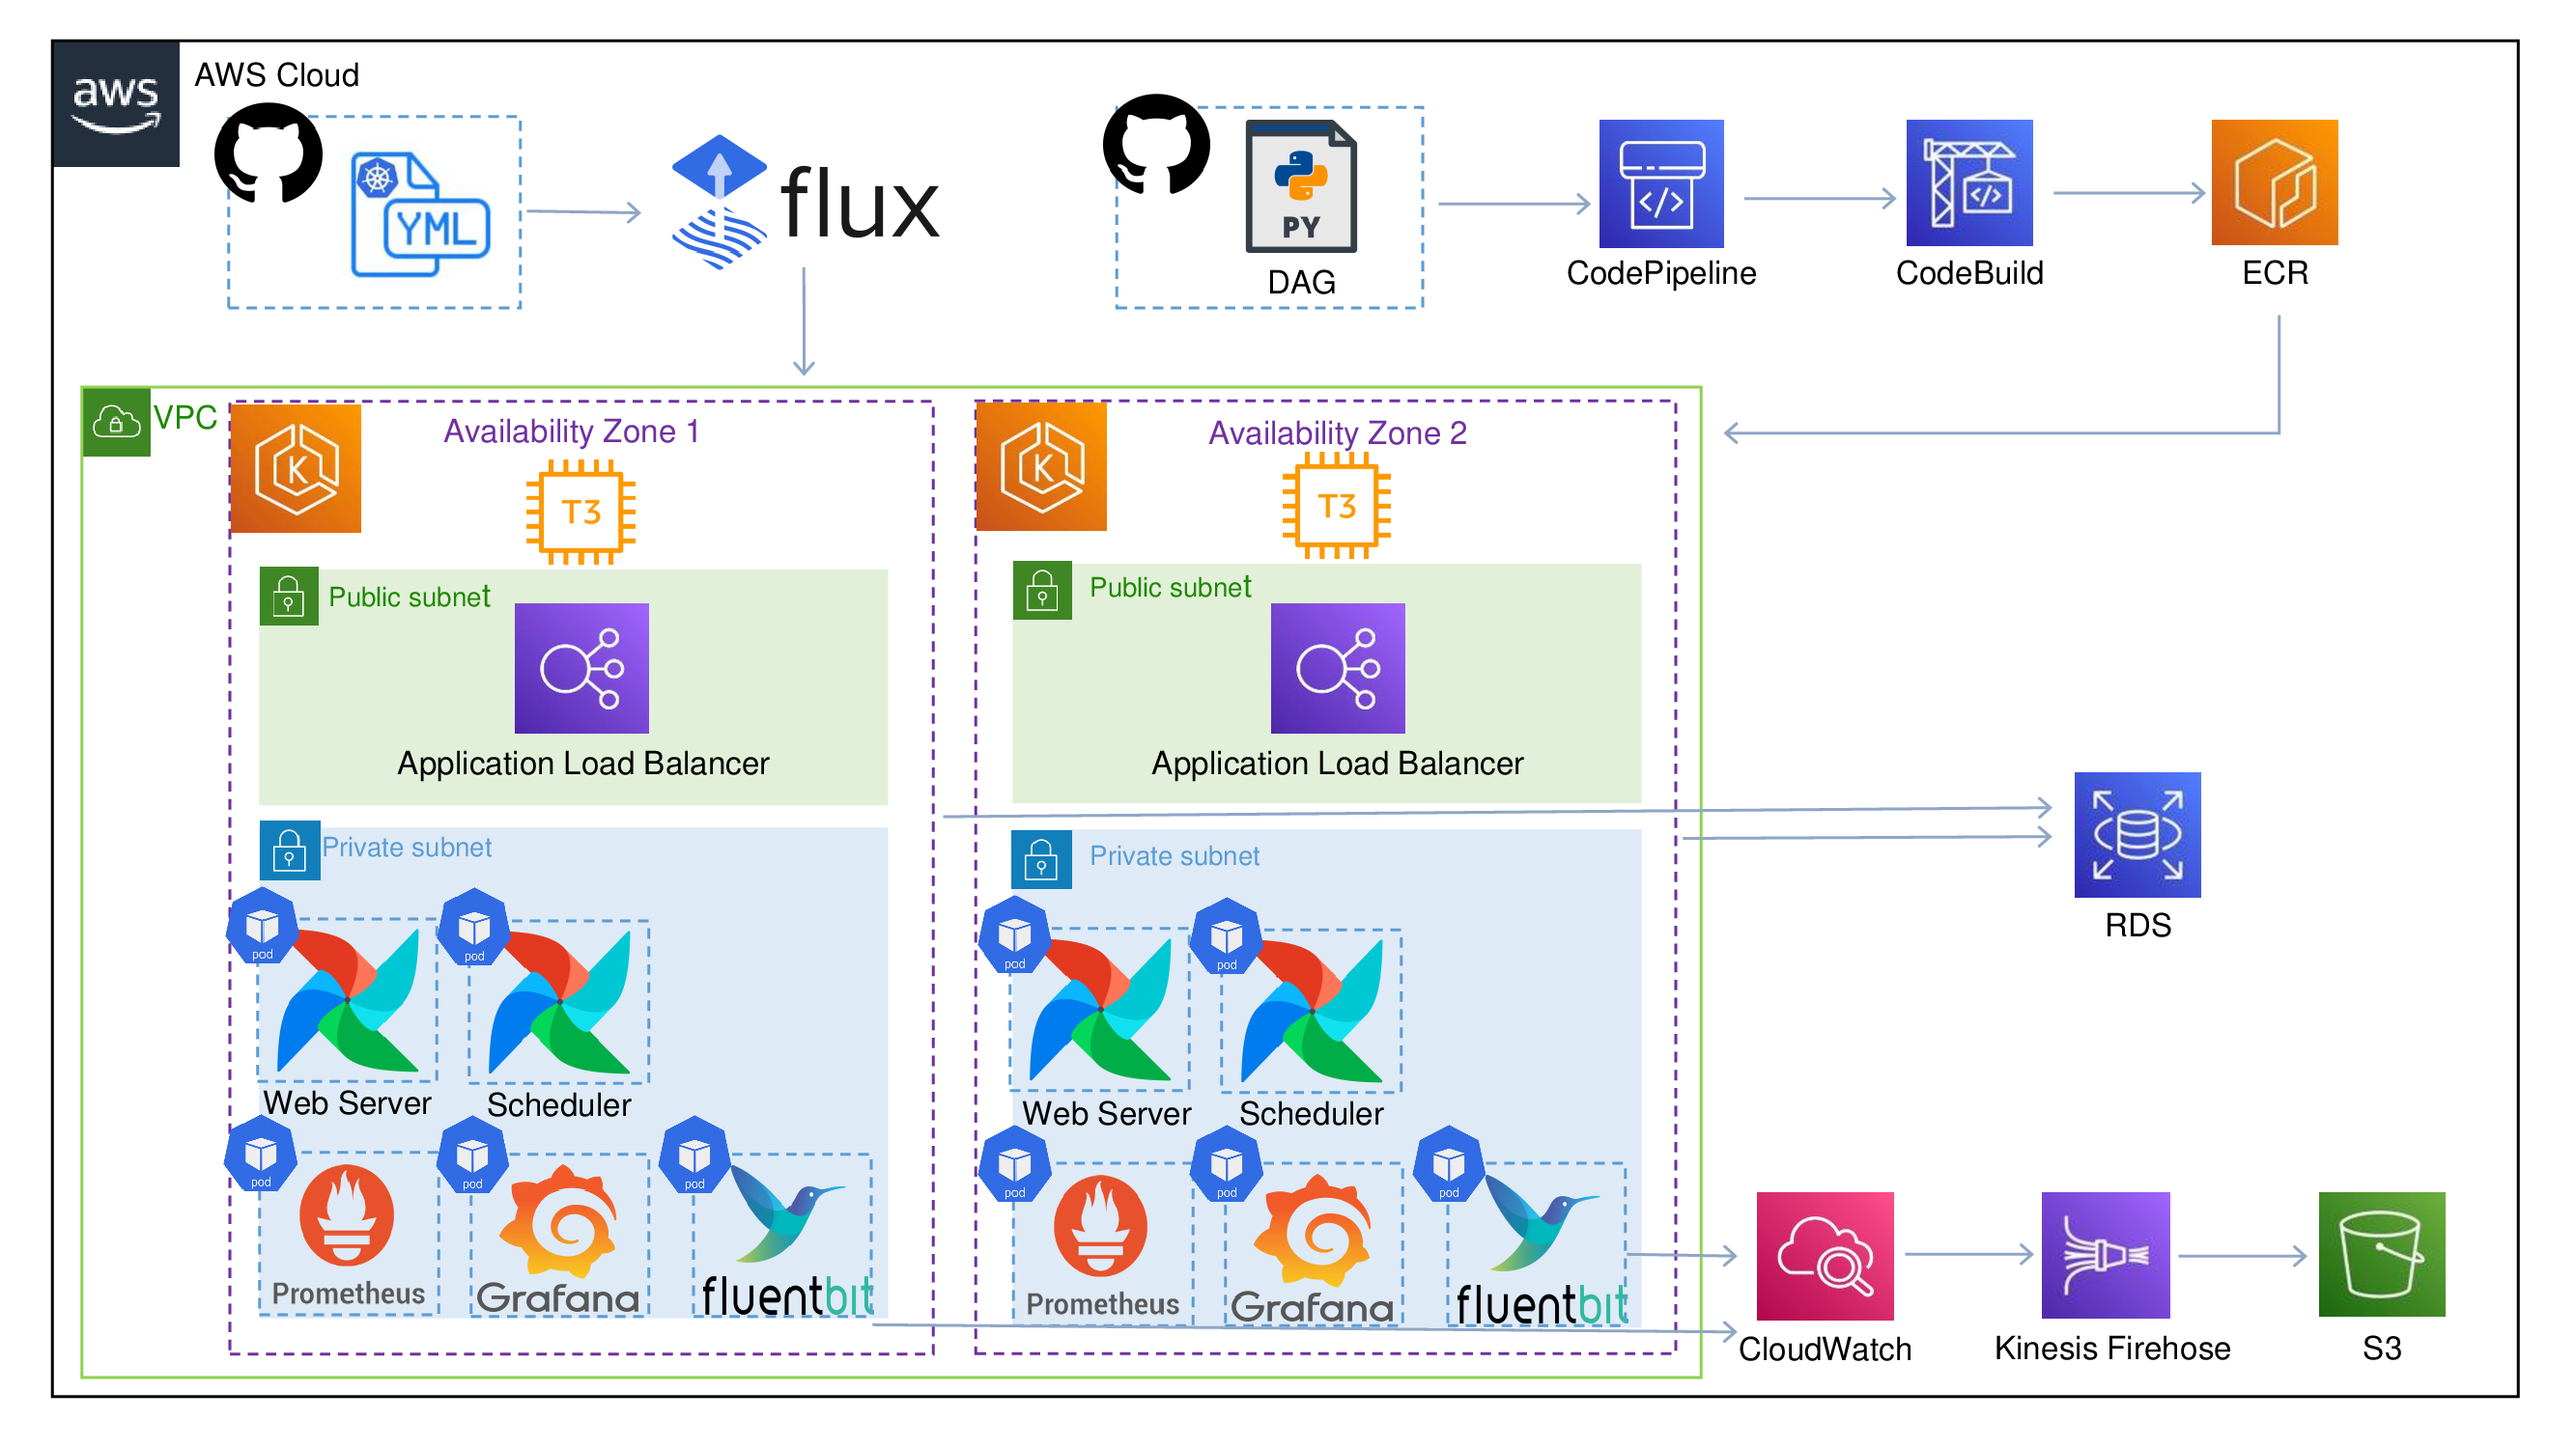
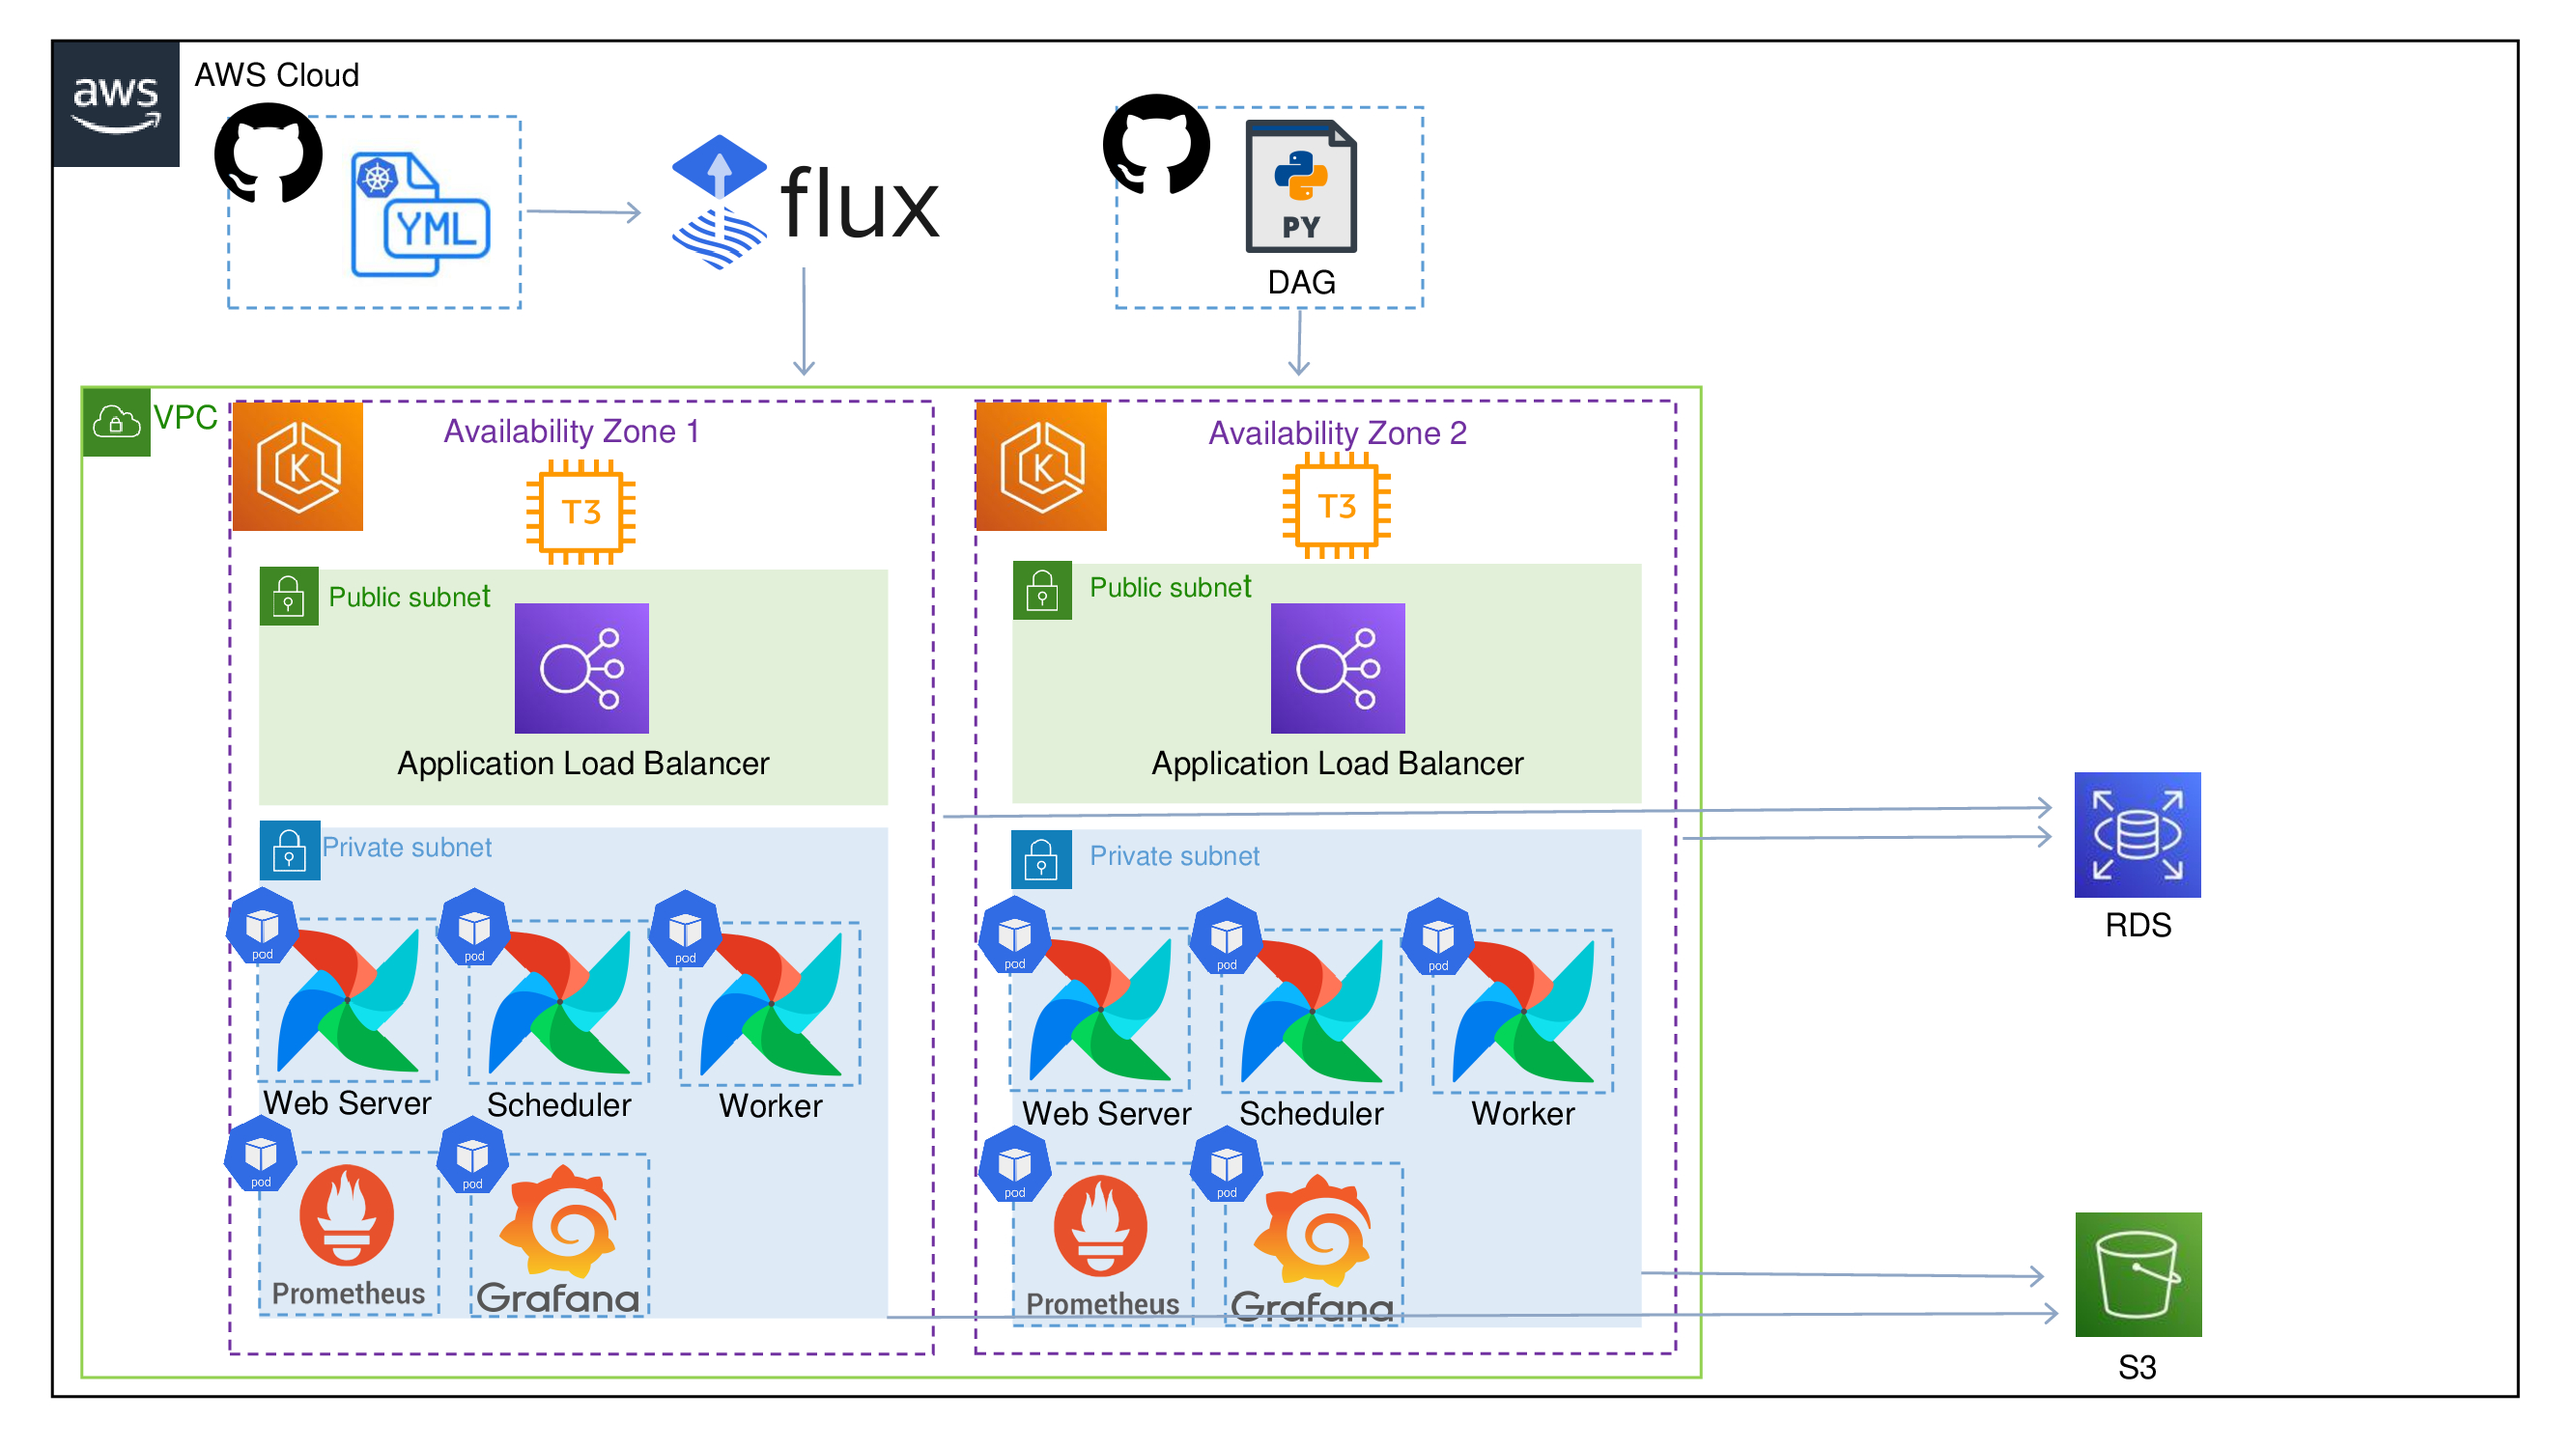
my fifth project
minor update

diff --git a/05-project-airflowEKS/readme.md b/05-project-airflowEKS/readme.md
@@ -13,13 +13,13 @@ EKS로 Airflow 배포하기
 
    ![Alt text](./images/architecture.jpg)
 
-   작성중이예요. 수정될 수 있어요!
-
    Flux로 k8s 리소스를 EKS에 배포해요.
 
    ALB로 Airflow UI를 외부에 노출해요.
 
-   Fluentbit로 로그를 Cloudwatch에 보내고 S3에 저장해요.
+   데이터베이스로 RDS를 사용해요.
+
+   Dag의 Logs를 S3에 저장해요.
 
    Prometheus 지표를 Grafana로 모니터링해요. 
 
@@ -61,8 +61,6 @@ managedNodeGroups:
       nodegroup-role: YourNodegroup
     iam:
       withAddonPolicies:
-        ebs: true
-        imageBuilder: true
         albIngress: true
         autoScaler: true
         cloudWatch: true
@@ -121,9 +119,7 @@ flux bootstrap github \
   --personal
 ```
 
-flux check로 실행해도 되는지 확인해요.
-
-클러스터에 flux를 배포해요.
+클러스터에 Flux를 배포해요.
 
 <br/>
 <br/>
@@ -250,16 +246,16 @@ dags:
 extraSecrets:
   airflow-ssh-secret:
     data: |
-      gitSshKey: LS0tLS~~
+      gitSshKey: ~~
    ```
 
   helm으로 values 환경설정 값과 함께 배포해요.
 
-  Git-sync로 dag를 github repo에서 가져와요.
-
-  dag로그를 S3 버킷에 저장해요.
+  Git-sync로 Dag를 Github repo에서 가져와요.
 
   Connection으로 MyS3Conn을 만들어 줘요.
+
+  Dag의 Logs를 S3 버킷에 저장해요.
 
   <br/>
 <br/>
@@ -309,12 +305,19 @@ spec:
 
   ![Alt text](./images/airflowUI-alb.jpg)  
 
+  <br/>
+<br/>
+<br/>
+<br/> 
+
 
 ###  8. AWS RDS 연결
    
    <br/>
 
    ```
+  values.yaml
+
    postgresql:
   enabled: false
 data:
@@ -367,6 +370,11 @@ https://www.udemy.com/course/apache-airflow-on-aws-eks-the-hands-on-guide/
 
 ---
 
+<br/>
+<br/>
+<br/>
+<br/> 
+
 ### 선택사항
 
 <br/>
@@ -387,7 +395,7 @@ kubectl port-forward service/management-ui -n management-ui 9001
 
   <br/>
 
-  2. kubecost
+  2. Kubecost
 
 ```
 https://www.kubecost.com/install#show-instructions
@@ -398,7 +406,7 @@ helm install kubecost kubecost/cost-analyzer --namespace kubecost --set kubecost
 kubectl port-forward --namespace kubecost deployment/kubecost-cost-analyzer 9090
 ```
 
-비용을 관리하고 싶을 때 kubecost를 배포해요.
+비용을 관리하고 싶을 때 Kubecost를 배포해요.
 
 ![Alt text](./images/kubecost_dashboard.jpg)
 
